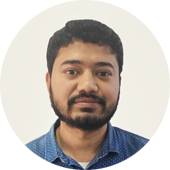
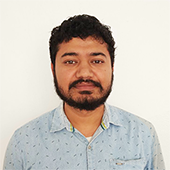
update image

diff --git a/resources/views/la/layouts/partials/sidebar.blade.php b/resources/views/la/layouts/partials/sidebar.blade.php
@@ -1,11 +1,11 @@
 
 
 <br />
-    @if (\Session::has('success'))
-    <div class="alert alert-success">
-        <p>{{ \Session::get('success') }}</p>
-    </div><br />
- @endif
+@if (\Session::has('success'))
+<div class="alert alert-success">
+    <p>{{ \Session::get('success') }}</p>
+</div><br />
+@endif
 <!-- Left side column. contains the logo and sidebar -->
 <aside class="main-sidebar">
 
@@ -17,9 +17,9 @@
         <div class="user-panel">
             <div class="pull-left image">
 <!--             <img src="la-assets/img/Profile_Image/tripan.jpg" class="img-circle" alt="User Image" />-->
-                
-                <img src="{{ Gravatar::fallback(asset('la-assets/img/user2-160x160.jpg'))->get(Auth::user()->email) }}" class="img-circle" alt="User Image" />
+                <img src="{{ asset('la-assets/img/Profile_Image/')}}<?php echo '/'.\Session::get('employee_details')['image'] ; ?>" class="img-circle" alt="User Image" style="border-radius: 50%" />
             </div>
+
             <div class="pull-left info">
                 <p>{{ Auth::user()->name }}</p>
                 <!-- Status -->
@@ -49,30 +49,32 @@
                 <?php
                 $menuItems = Dwij\Laraadmin\Models\Menu::where("parent", 0)->orderBy('hierarchy', 'asc')->get();
                 $role_id = DB::table('role_user')->select(['role_id'])->whereRaw('user_id = "' . Auth::user()->id . '"')->first();
-                $roleMenu = DB::table('sidebar_menu_accesses')->whereRaw('role_id = ' . $role_id->role_id. ' and deleted_at IS NULL')->pluck('menu_id');
+                $roleMenu = DB::table('sidebar_menu_accesses')->whereRaw('role_id = ' . $role_id->role_id . ' and deleted_at IS NULL')->pluck('menu_id');
                 ?>
-                @foreach ($menuItems as $menu)
-                    @if($menu->type == "module")
-                        <?php
-                        $temp_module_obj = Module::get($menu->name);
-                        ?>
-                        @la_access($temp_module_obj->id)
-                            @if(isset($module->id) && $module->name == $menu->name && in_array($menu->id, $roleMenu))
-                                <?php echo LAHelper::print_menu($menu, true); ?>
-                            @else
-                                <?php if (in_array($menu->id, $roleMenu)) {
-                                    echo LAHelper::print_menu($menu);
-                                } ?>
-                            @endif
-                        @endla_access
-                    @else
-                        <?php
-                        if (in_array($menu->id, $roleMenu)) {
-                            echo LAHelper::print_menu($menu);
-                        }
-                        ?>
-                    @endif
-                @endforeach
+            @foreach ($menuItems as $menu)
+            @if($menu->type == "module")
+            <?php
+            $temp_module_obj = Module::get($menu->name);
+            ?>
+            @la_access($temp_module_obj->id)
+            @if(isset($module->id) && $module->name == $menu->name && in_array($menu->id, $roleMenu))
+            <?php echo LAHelper::print_menu($menu, true); ?>
+            @else
+            <?php
+            if (in_array($menu->id, $roleMenu)) {
+                echo LAHelper::print_menu($menu);
+            }
+            ?>
+            @endif
+            @endla_access
+            @else
+            <?php
+            if (in_array($menu->id, $roleMenu)) {
+                echo LAHelper::print_menu($menu);
+            }
+            ?>
+            @endif
+            @endforeach
             <!-- LAMenus -->
 
         </ul><!-- /.sidebar-menu -->

diff --git a/resources/views/la/layouts/partials/notifs.blade.php b/resources/views/la/layouts/partials/notifs.blade.php
@@ -92,7 +92,7 @@
             <a href="#" class="dropdown-toggle" data-toggle="dropdown">
                 <!-- The user image in the navbar-->
 <!--                <img src="la-assets/img/Profile_Image/tripan.jpg" class="img-circle" alt="User Image"  style="width: 25px;height: 25px;"/>-->
-                <img src="{{ Gravatar::fallback(asset('la-assets/img/user2-160x160.jpg'))->get(Auth::user()->email) }}" class="user-image" alt="User Image"/>
+                <img src="{{ asset('la-assets/img/Profile_Image/')}}<?php echo '/'.\Session::get('employee_details')['image'] ; ?>" class="img-circle" alt="User Image" style="width: 25px;height: 25px; border-radius: 50%" />
                 <!-- hidden-xs hides the username on small devices so only the image appears. -->
                 <span class="hidden-xs">{{ Auth::user()->name }}</span>
             </a>
@@ -100,7 +100,7 @@
                 <!-- The user image in the menu -->
                 <li class="user-header">
 <!--                    <img src="la-assets/img/Profile_Image/tripan.jpg" class="img-circle" alt="User Image" />-->
-                    <img src="{{ Gravatar::fallback(asset('la-assets/img/user2-160x160.jpg'))->get(Auth::user()->email) }}" class="img-circle" alt="User Image" />
+                    <img src="{{ asset('la-assets/img/Profile_Image/')}}<?php echo '/'.\Session::get('employee_details')['image'] ; ?>" class="img-circle" alt="User Image" style=" border-radius: 50%"/>
                     <p>
                         {{ Auth::user()->name }}
                         <?php

diff --git a/resources/views/la/employees/add.blade.php b/resources/views/la/employees/add.blade.php
@@ -45,6 +45,7 @@
 					@la_input($module, 'salary_cur')
 					@la_input($module, 'date_hire')
 					@la_input($module, 'is_confirmed')
+                                       
 					--}}
                 <div class="form-group">
                     <label for="role">Role* :</label>
@@ -57,6 +58,7 @@
                         @endforeach
                     </select>
                 </div>
+                  
                 <br>
                 <div class="form-group">
                     {!! Form::submit( 'Submit', ['class'=>'btn btn-success']) !!} <button class="btn btn-default pull-right cancel-button"><a href="{{ url(config('laraadmin.adminRoute') . '/projects') }}">Cancel</a></button>

diff --git a/app/Http/Controllers/Auth/AuthController.php b/app/Http/Controllers/Auth/AuthController.php
@@ -151,6 +151,8 @@ use AuthenticatesAndRegistersUsers,
                 $request->session()->put('holiday_list', json_encode($holiday_list));
                 $request->session()->put('role', Employee::employeeRole());
                 $request->session()->put('employee_details', $emp_details);
+                
+
                 return redirect($this->redirectTo);
             }
         } else {

diff --git a/resources/views/la/employees/show.blade.php b/resources/views/la/employees/show.blade.php
@@ -122,6 +122,7 @@ Employee View
                         @la_display($module, 'second_approver')
                         @la_display($module, 'dept')
                         @la_display($module, 'date_hire')
+<!--                         @la_input($module, 'image')-->
                     </div>
                 </div>
             </div>

diff --git a/resources/views/la/employees/index.blade.php b/resources/views/la/employees/index.blade.php
@@ -72,6 +72,7 @@
 					@la_input($module, 'second_approver')
 					@la_input($module, 'dept')
 					@la_input($module, 'date_hire')
+//                                         @la_input($module, 'image')
 					--}}
                     <div class="form-group">
                         <label for="role">Role* :</label>

diff --git a/resources/views/la/employees/edit.blade.php b/resources/views/la/employees/edit.blade.php
@@ -50,6 +50,7 @@
 					@la_input($module, 'dept')
 					@la_input($module, 'date_hire')
 					@la_input($module, 'is_confirmed')
+//                                         @la_input($module, 'image')
 					--}}
                 @if(Entrust::hasRole('SUPER_ADMIN'))
                 <div class="form-group">
